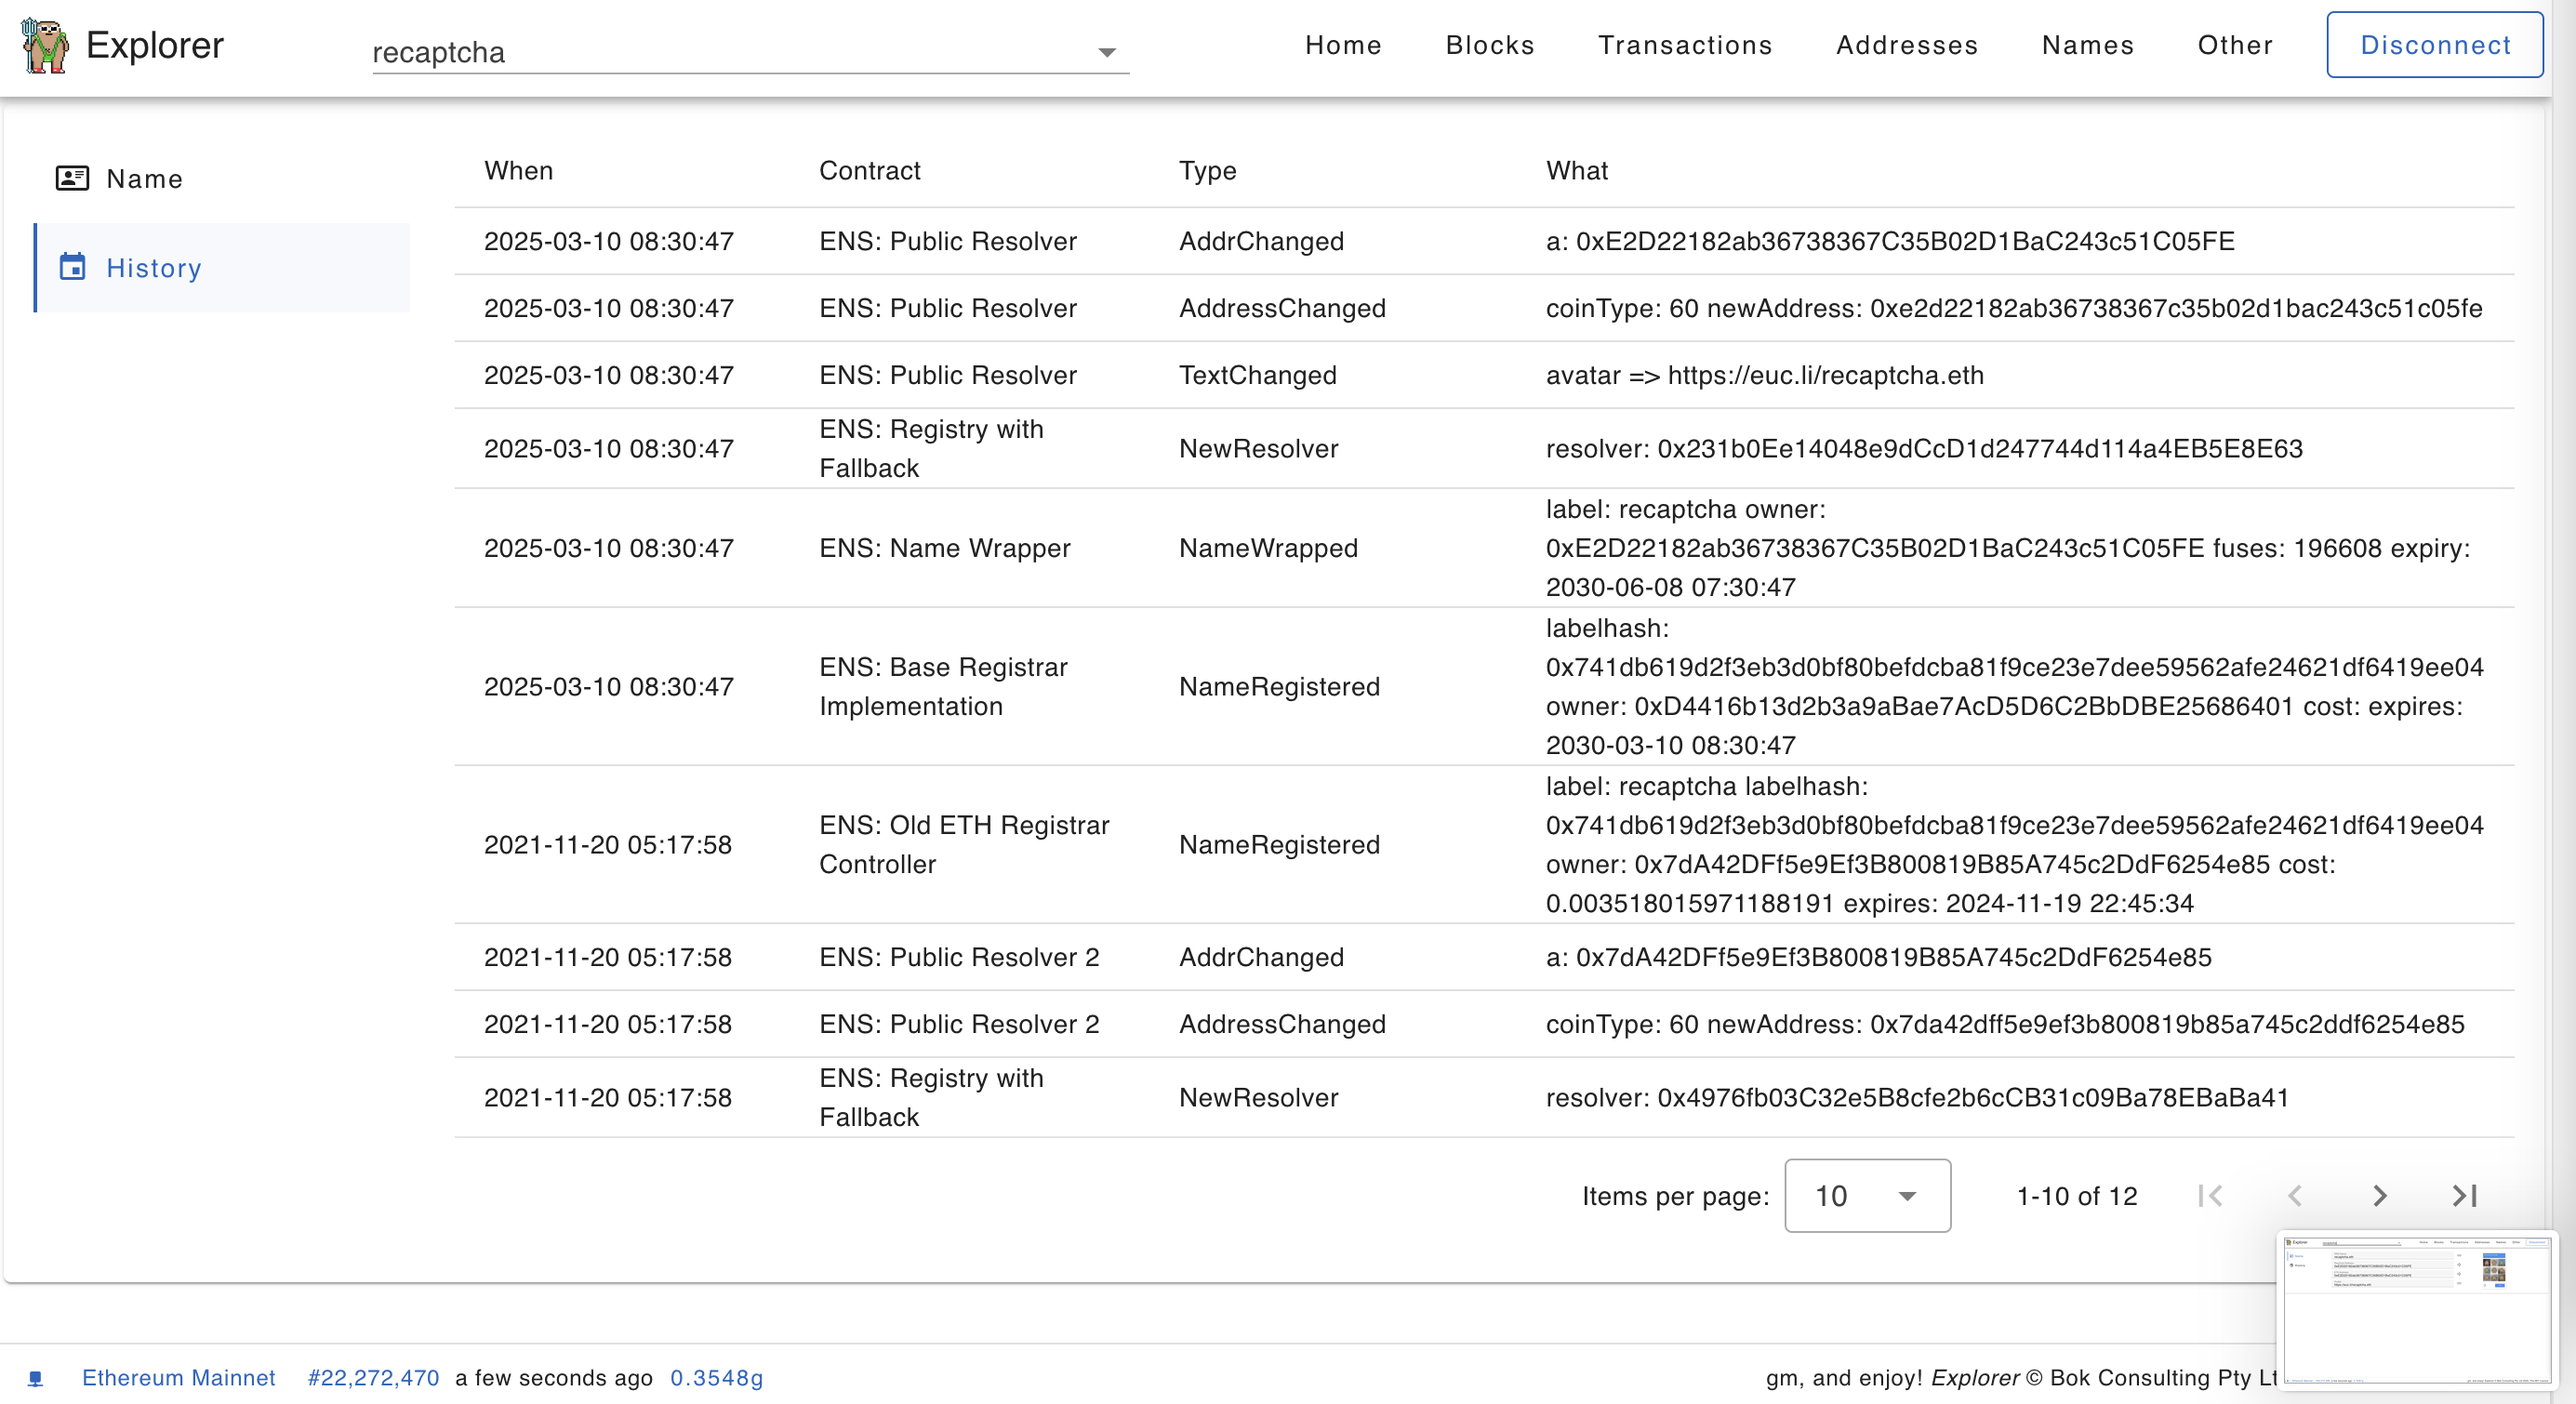
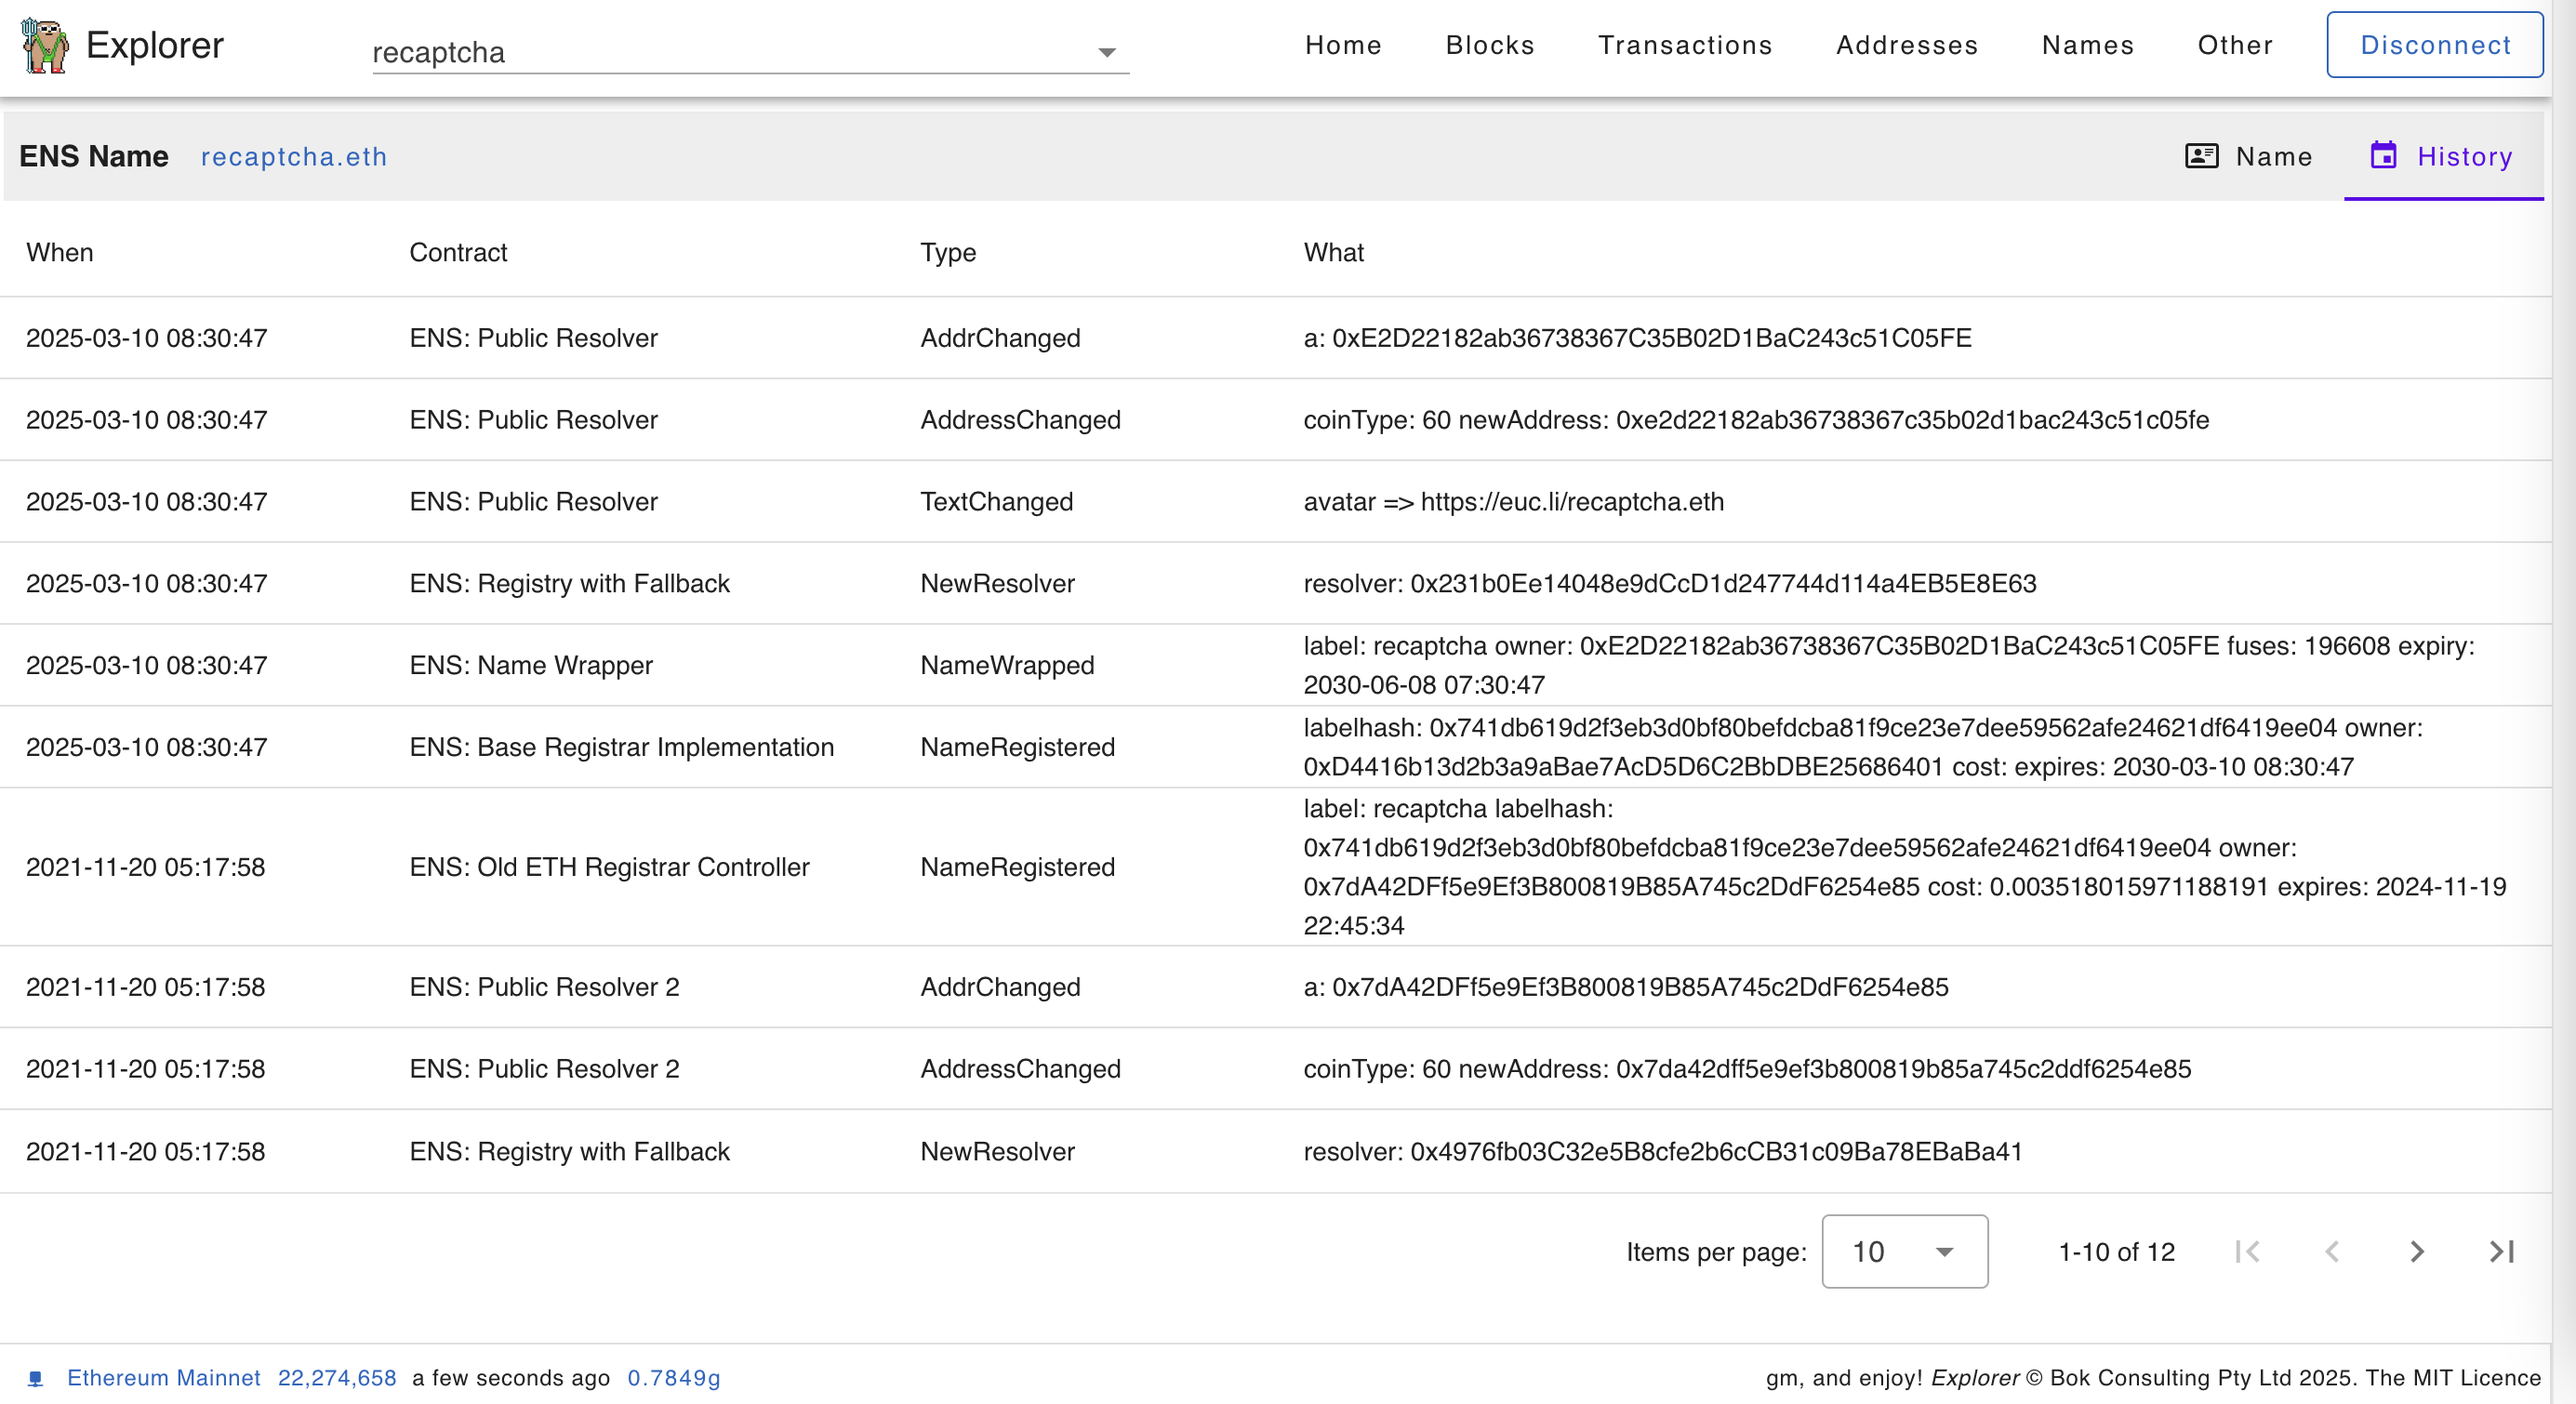
Base Mainnet screenshots

diff --git a/README.md b/README.md
@@ -8,6 +8,8 @@ Web3 dapp: https://bokkypoobah.github.io/Explorer/ connected to Ethereum Mainnet
 
 ### Sample Screens
 
+#### Ethereum Mainnet
+
 <kbd><img src="images/SampleScreen01.png" width="800" /></kbd>
 
 <kbd><img src="images/SampleScreen02.png" width="800" /></kbd>
@@ -33,6 +35,12 @@ Web3 dapp: https://bokkypoobah.github.io/Explorer/ connected to Ethereum Mainnet
 <kbd><img src="images/SampleScreen12.png" width="800" /></kbd>
 
 <kbd><img src="images/SampleScreen13.png" width="800" /></kbd>
+
+#### Base Mainnet
+
+<kbd><img src="images/SampleScreen14.png" width="800" /></kbd>
+
+<kbd><img src="images/SampleScreen15.png" width="800" /></kbd>
 
 <br />
 
